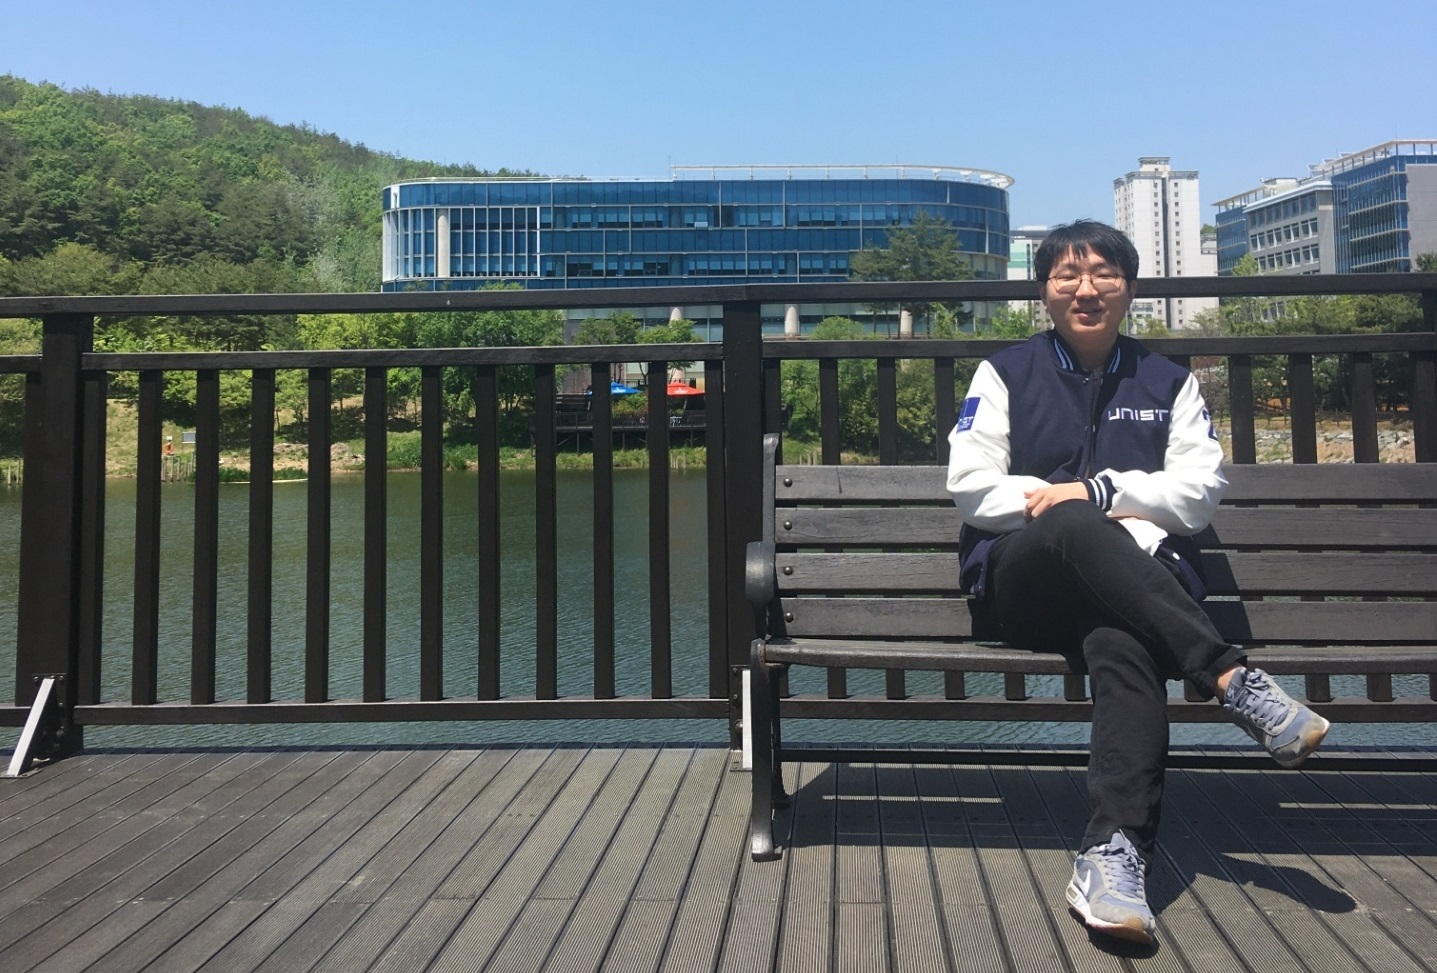
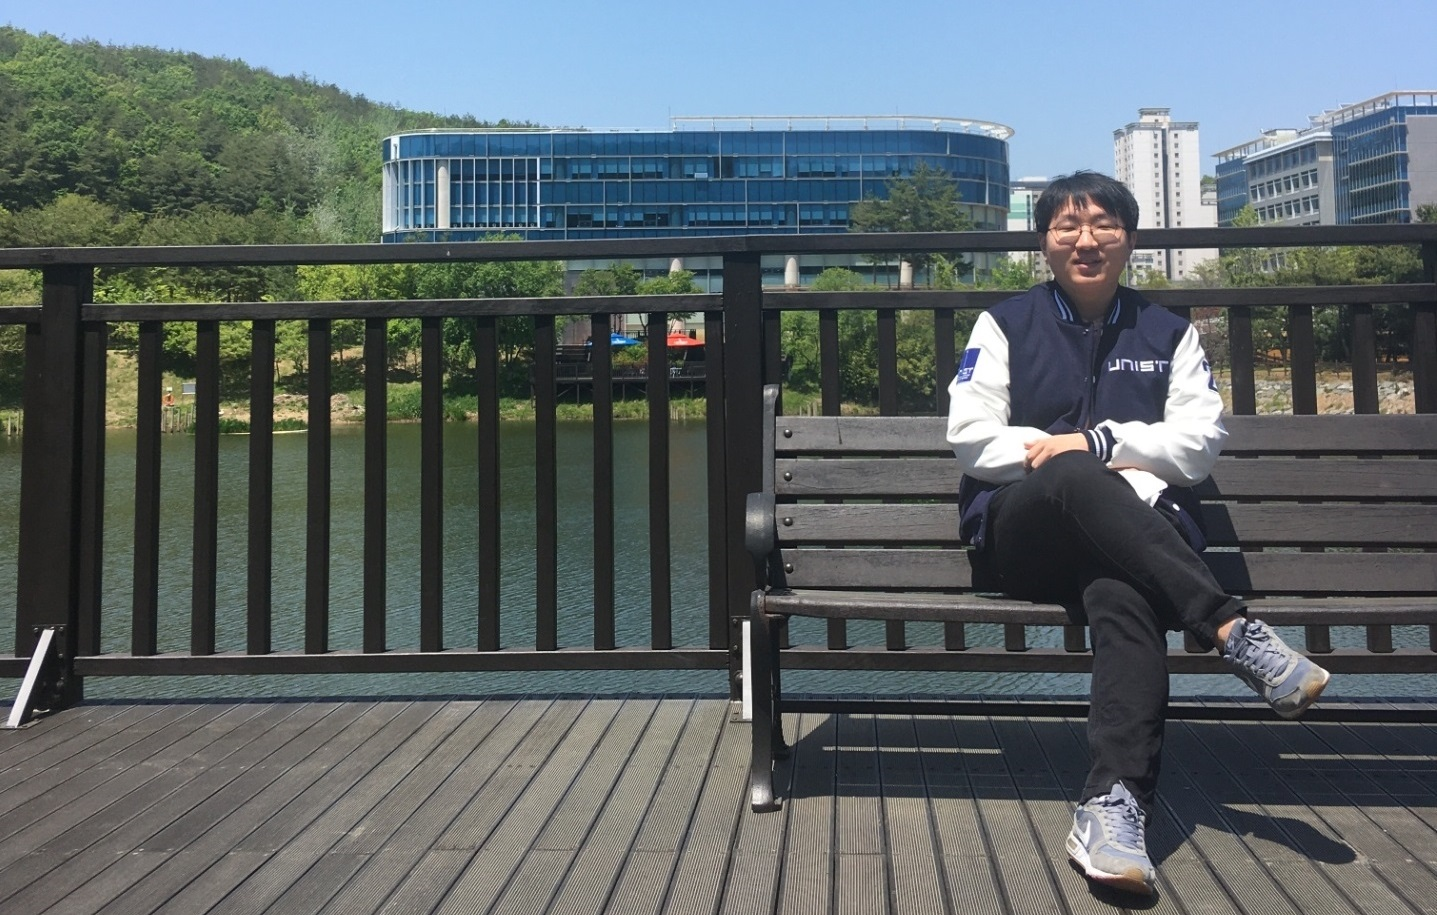
no message

diff --git a/_includes/footer.html b/_includes/footer.html
@@ -19,5 +19,3 @@
 </div>
 
 <div class="page__footer-copyright">&copy; {{ site.time | date: '%Y' }} {{ site.name | default: site.title }}. {{ site.data.ui-text[site.locale].powered_by | default: "Powered by" }} <a href="https://jekyllrb.com" rel="nofollow">Jekyll</a> &amp; <a href="https://mademistakes.com/work/minimal-mistakes-jekyll-theme/" rel="nofollow">Minimal Mistakes</a>.</div>
-
-.page__footer-copyright {margin: auto;}

diff --git a/_sass/minimal-mistakes/_footer.scss b/_sass/minimal-mistakes/_footer.scss
@@ -49,6 +49,7 @@
 .page__footer-copyright {
   font-family: $global-font-family;
   font-size: $type-size-7;
+  text-align: center;
 }
 
 .page__footer-follow {

diff --git a/_pages/about.md b/_pages/about.md
@@ -5,7 +5,7 @@ permalink: /
 author_profile: true
 classes: wide
 ---
-<figure style="width: 80%" class="align-center">
+<figure style="width: 90%" class="align-center">
   <img src="/assets/images/about20220713.jpg" alt="">
 </figure>
 
